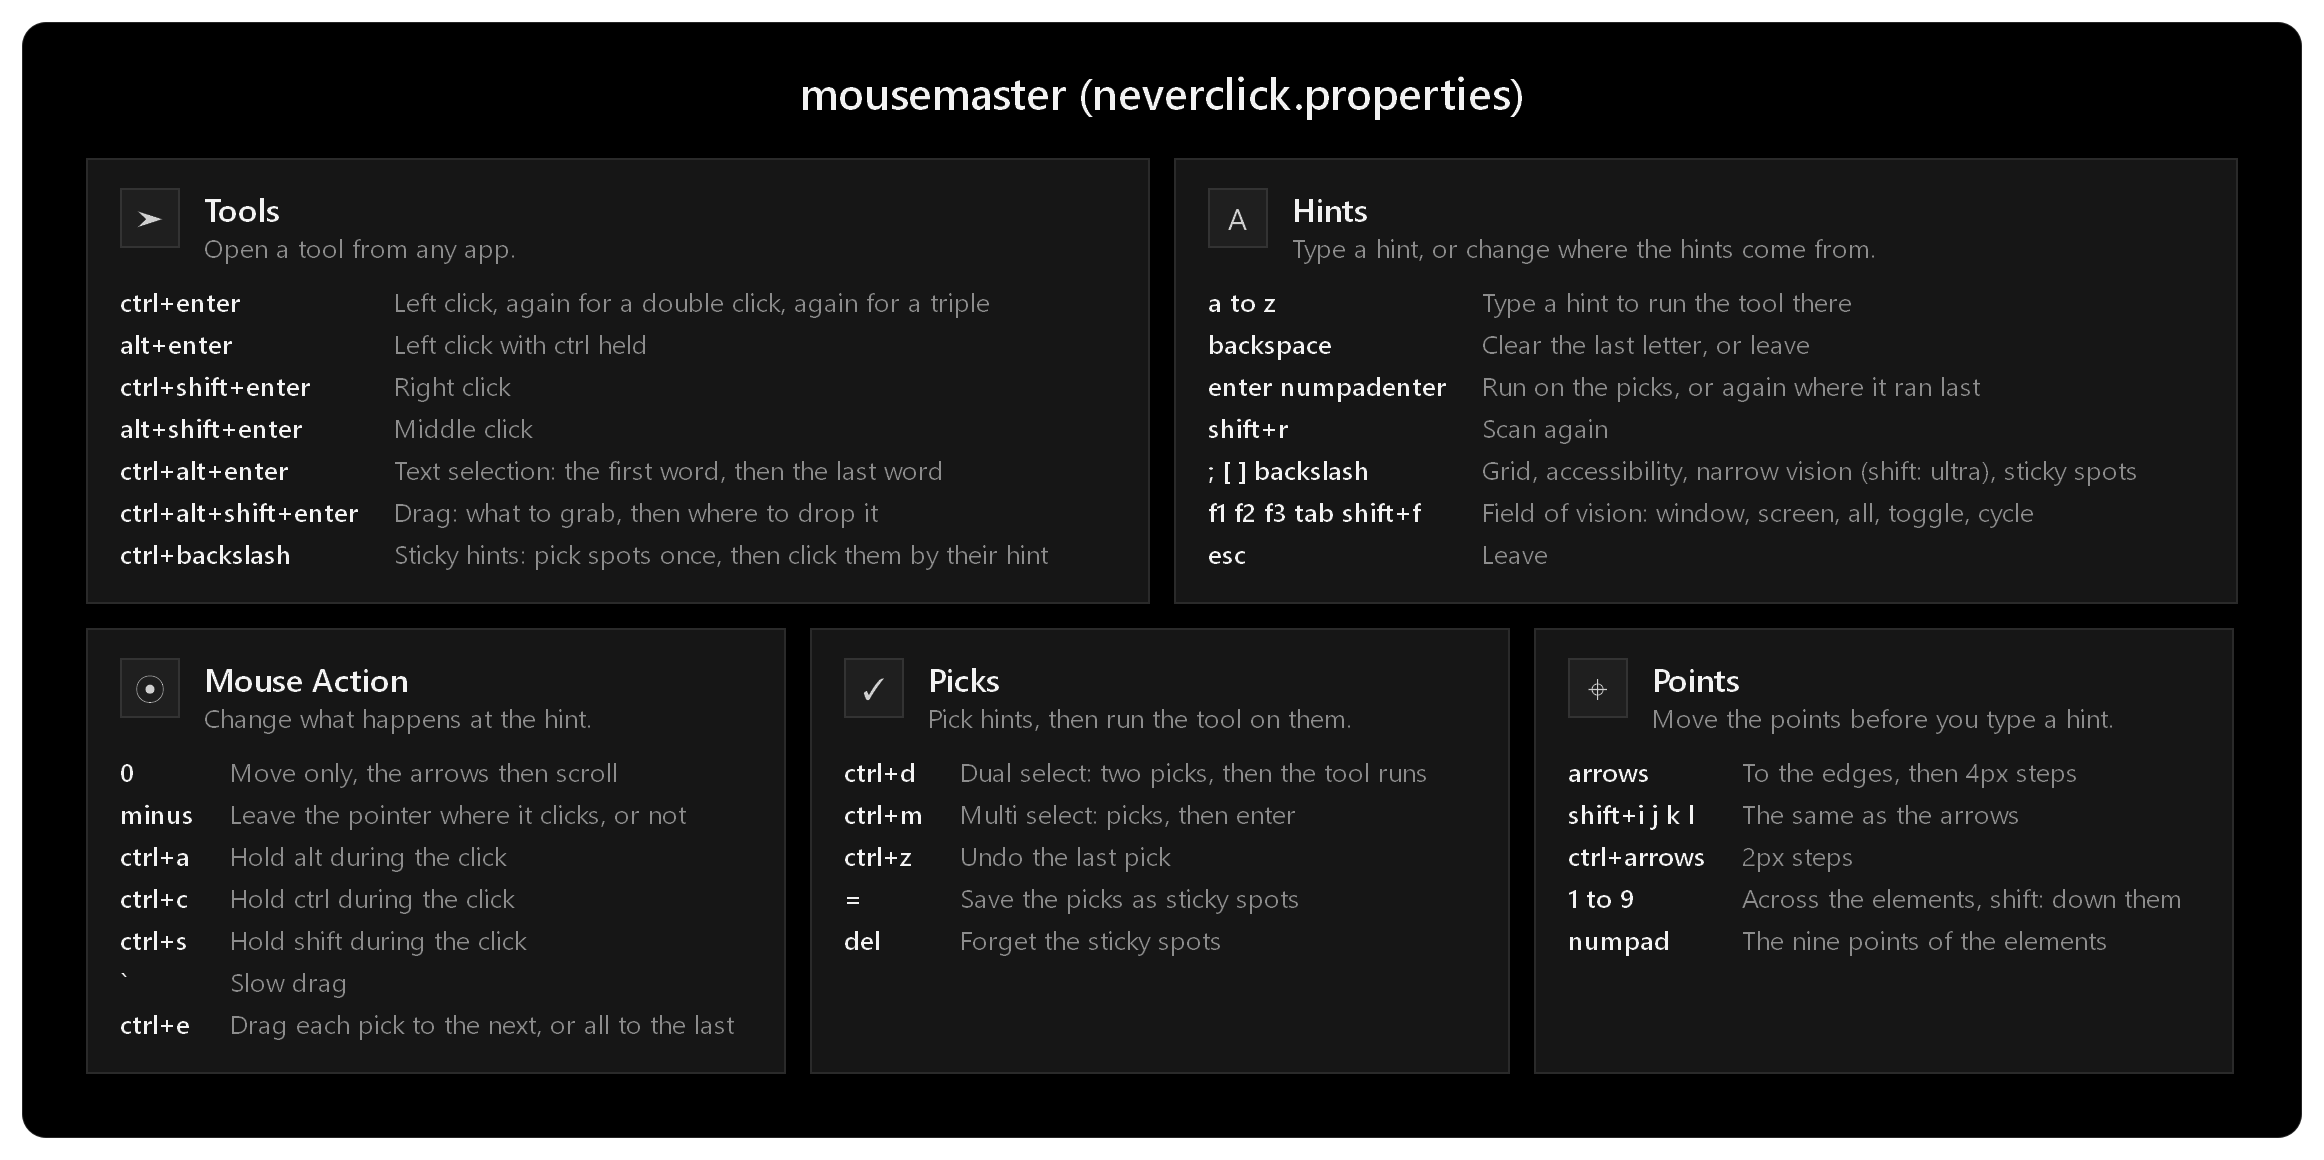
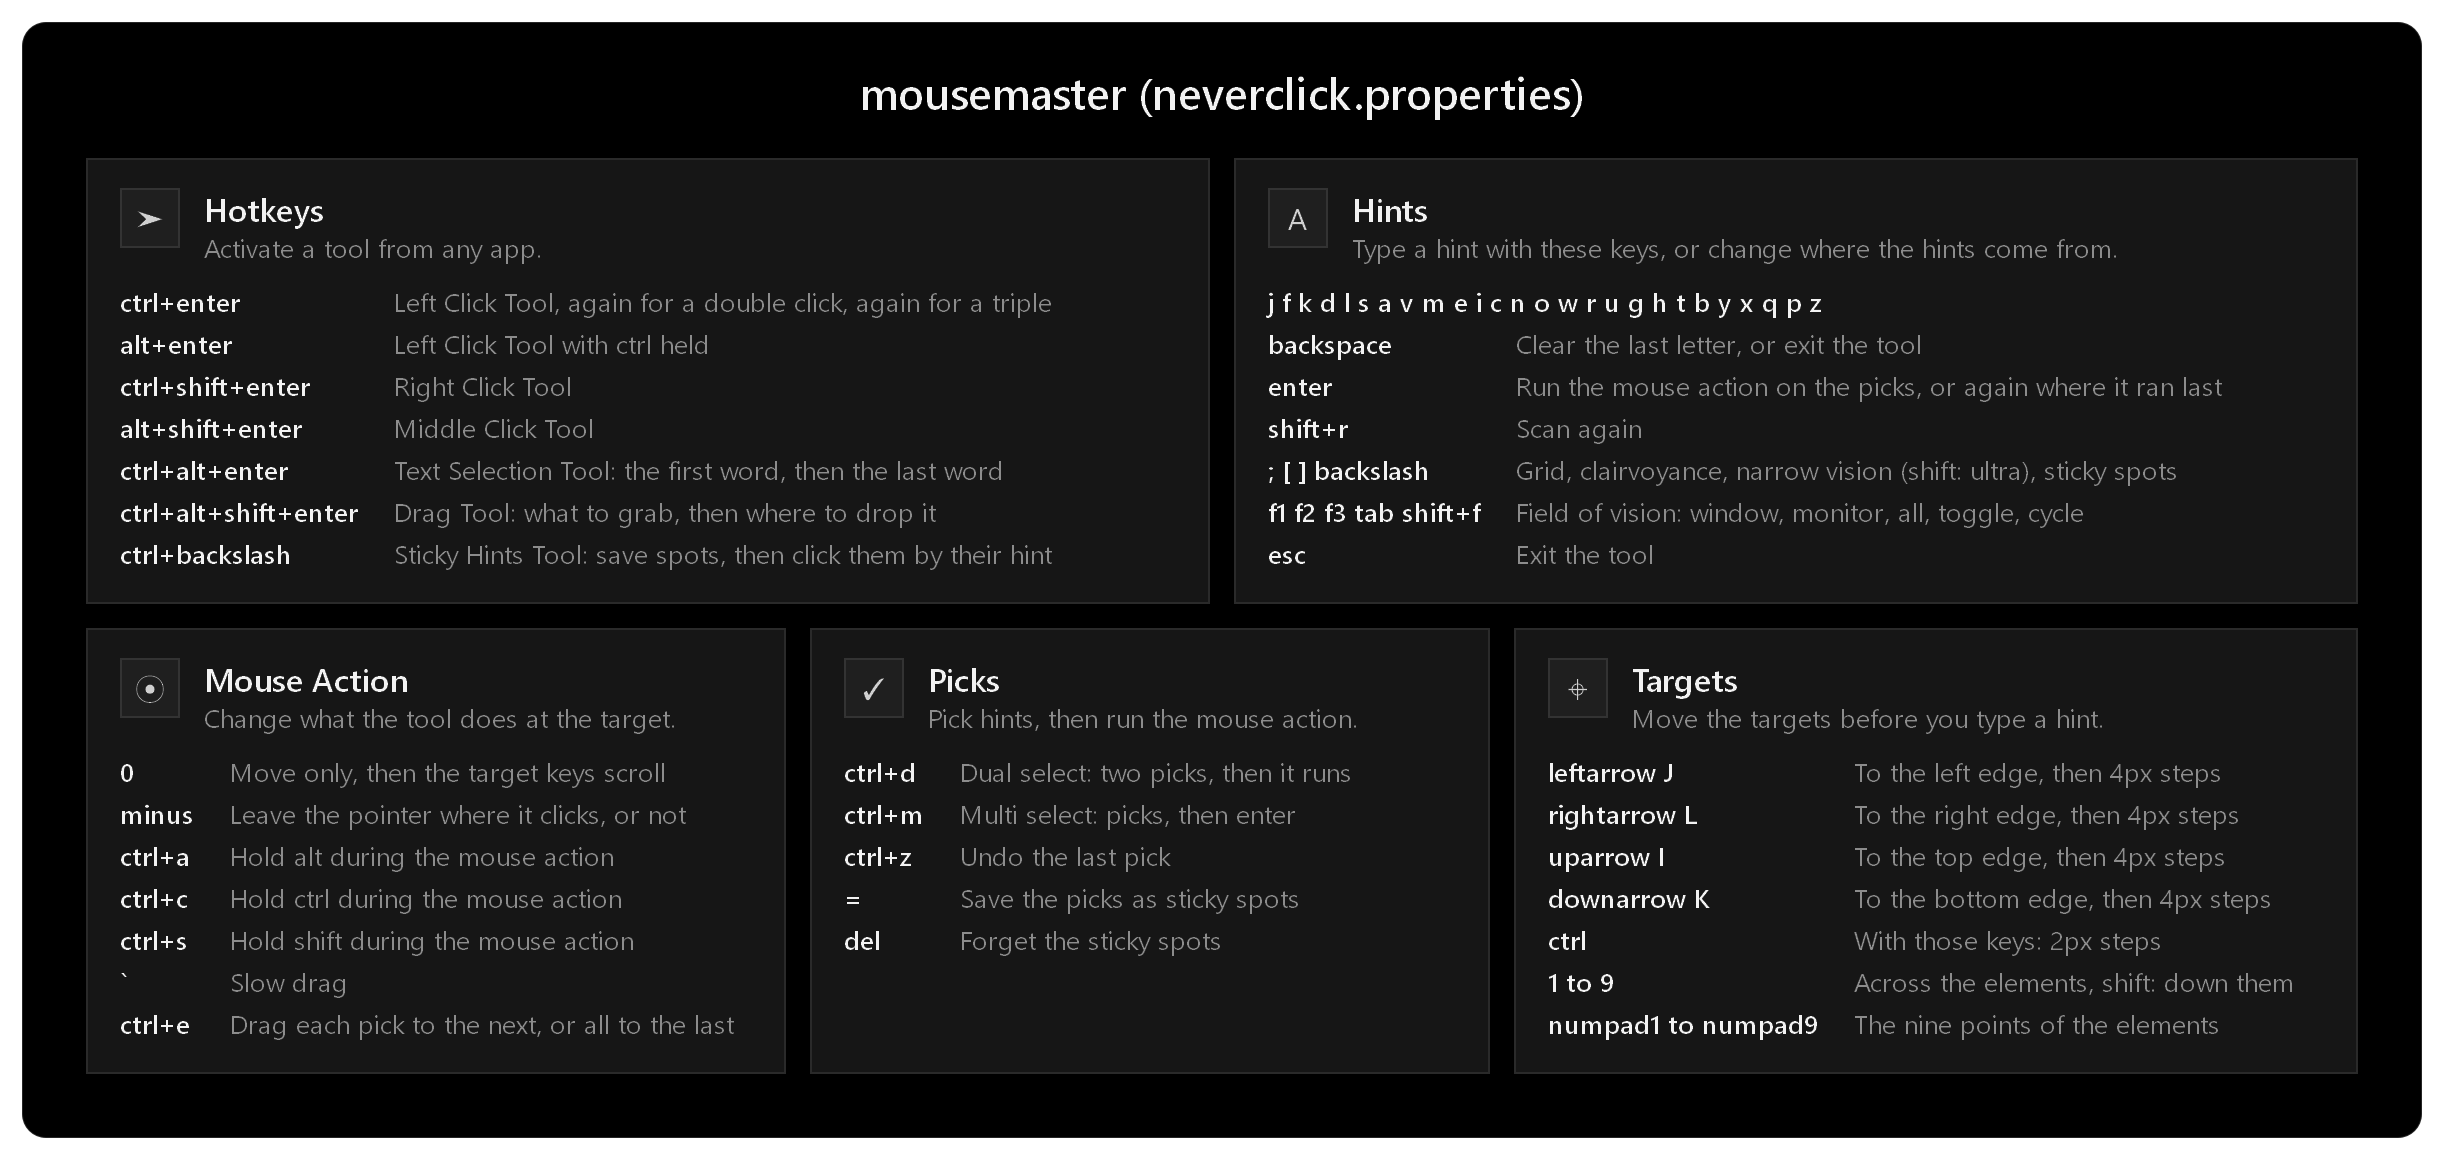
Use Neverclick terms and key aliases in the neverclick cheatsheet

diff --git a/docs/neverclick.md b/docs/neverclick.md
@@ -2,69 +2,69 @@
 
 [Neverclick](https://www.neverclick.com), the mousemaster way.
 
-https://github.com/user-attachments/assets/4725e4a2-9223-4aaa-be56-05647eadde0e
+https://github.com/user-attachments/assets/83378b27-45ff-47c8-bf0f-a980e5dd7b4f
 
-## Tools
+## Hotkeys
 
-From any app:
+From any app, a hotkey activates a tool:
 
-| Keys                   | Tool                                                    |
-|------------------------|---------------------------------------------------------|
-| `Ctrl+Enter`           | Left click (again in the hints: double, then triple)    |
-| `Alt+Enter`            | Ctrl+click                                              |
-| `Ctrl+Shift+Enter`     | Right click                                             |
-| `Alt+Shift+Enter`      | Middle click                                            |
-| `Ctrl+Alt+Enter`       | Text selection: the first word, then the last           |
-| `Ctrl+Alt+Shift+Enter` | Drag: what to grab, then where to drop it               |
-| `Ctrl+\`               | Sticky hints                                            |
+| Hotkey                 | Tool                                                             |
+|------------------------|------------------------------------------------------------------|
+| `Ctrl+Enter`           | Left Click Tool (again in the tool: double, then triple click)   |
+| `Alt+Enter`            | Left Click Tool with Ctrl held                                   |
+| `Ctrl+Shift+Enter`     | Right Click Tool                                                 |
+| `Alt+Shift+Enter`      | Middle Click Tool                                                |
+| `Ctrl+Alt+Enter`       | Text Selection Tool: the first word, then the last               |
+| `Ctrl+Alt+Shift+Enter` | Drag Tool: what to grab, then where to drop it                   |
+| `Ctrl+\`               | Sticky Hints Tool                                                |
 
-The hints mark what computer vision finds on every screen. All labels have the same length, and the labels of the first hint keys (`j f k d l s a …`) go near the center of the active window. A tool hotkey pressed in the hints changes the tool without a new scan.
+The hints mark what computer vision finds on every screen. All labels have the same length, and the labels of the first hint keys (`j f k d l s a …`) go near the center of the active window. A hotkey pressed in a tool changes the tool without a new scan.
 
-While the hints are open, every key but Print Screen goes to mousemaster. A toast at the bottom left names each change.
+While a tool is active, every key but Print Screen goes to mousemaster. A toast at the bottom left names each change.
 
 ![neverclick cheatsheet](assets/neverclick-cheatsheet.png)
 
-Hold `?` while the hints are open to show this cheatsheet.
+Hold `?` in a tool to show this cheatsheet.
 
-## In the hints
+## Hints
 
-- `Backspace` clears the last letter, or leaves. `Esc` leaves.
-- `Enter` runs the tool on the picks, or again where it last ran.
+- `Backspace` clears the last letter, or exits the tool. `Esc` exits the tool.
+- `Enter` runs the mouse action on the picks, or again where it last ran.
 - `Shift+R` scans again.
-- Hint source: `;` a grid, `[` the accessibility elements of the active window, `]` denser vision hints (`Shift+]` the densest), `\` the sticky spots. The same key again goes back to the vision hints, or for the grid, to the hints under it.
-- Field of vision: `F1` the active window, `F2` its screen, `F3` every screen, `Tab` window or all, `Shift+F` the next one. It is kept for the next activations.
+- Hint source: `;` a grid, `[` clairvoyance (the accessibility elements of the active window), `]` denser vision hints (`Shift+]` the densest), `\` the sticky spots. The same key again goes back to the vision hints, or for the grid, to the hints under it.
+- Field of vision: `F1` the active window, `F2` the monitor of the pointer, `F3` every monitor, `Tab` window or all, `Shift+F` the next one. It is kept for the next activations.
 
 ## Mouse action
 
 - `0` moves the pointer without a click. The arrows then scroll, and any other key leaves.
 - `-` leaves the pointer where the tool clicked (kept for the next activations).
-- `Ctrl+A`, `Ctrl+C`, `Ctrl+S` (or `,` `.` `/`) hold Alt, Ctrl, Shift during the click.
+- `Ctrl+A`, `Ctrl+C`, `Ctrl+S` (or `,` `.` `/`) hold Alt, Ctrl, Shift during the mouse action.
 - In a drag, `` ` `` makes it slow, and `Ctrl+E` drags each pick to the next one instead of all to the last (kept for the next activations).
 
 ## Picks
 
-- `Ctrl+D` (or `'`): dual select. Two picks, then the tool runs.
-- `Ctrl+M` (or `Shift+'`): multi select. Any number of picks, then `Enter` runs the tool on each one in order. A drag drags them to the last pick.
+- `Ctrl+D` (or `'`): dual select. Two picks, then the mouse action runs.
+- `Ctrl+M` (or `Shift+'`): multi select. Any number of picks, then `Enter` runs the mouse action on each one in order. A drag drags them to the last pick.
 - `Ctrl+Z` undoes the last pick.
 
 A pick stays on screen, outlined, with a dashed line to the next one.
 
-## Hotspots
+## Targets
 
-Each hint acts at its hotspot, at the center of its element at first. Before you type a hint, these keys move the hotspots of all the hints together. A moved hotspot shows as a dot in the color of its hint, with a line from its label.
+Each hint acts at its target, at the center of its element at first. Before you type a hint, these keys move the targets of all the hints together. A moved target shows as a dot in the color of its hint, with a line from its label.
 
-- Arrows (or `Shift+I J K L`): the first one to the edge of the elements, then 4px steps. Hold an arrow to move the hotspots on after half a second. An arrow pressed during the move joins it. Hold `Ctrl` for 2px steps and half the speed.
+- Arrows (or `Shift+I J K L`): the first one to the edge of the elements, then 4px steps. Hold an arrow to move the targets on after half a second. An arrow pressed during the move joins it. Hold `Ctrl` for 2px steps and half the speed.
 - `1` to `9`: across the elements in eighths, from the left edge (`1`) through the center (`5`) to the right edge (`9`). `Shift` and a digit: down them.
 - Numpad: the nine points of the elements.
 
-A pick keeps its hotspot. The next activation starts the hotspots at the centers again.
+A pick keeps its target. The next activation starts the targets at the centers again.
 
-## Sticky hints
+## Sticky Hints Tool
 
-- `=` in the hints: the hints typed next become sticky spots (26 at most). `Enter` or `=` shows them.
-- `Ctrl+\` shows the sticky spots, or starts to pick them when there are none. Type the hint of a spot to click it: the sticky hints stay open for the next click.
-- In the sticky hints, `=` goes back to the hints to add more, and `Delete` forgets them all.
+- `=` in a tool: the hints typed next become sticky spots (26 at most). `Enter` or `=` shows them.
+- `Ctrl+\` activates the Sticky Hints Tool. It shows the sticky spots, or starts to pick them when there are none. Type the hint of a spot to click it: the tool stays active for the next click.
+- In the Sticky Hints Tool, `=` goes back to the hints to add more, and `Delete` forgets them all.
 
 ## Rebinding
 
-Every key is an alias at the top of [neverclick.properties](../configuration/neverclick.properties), e.g. `key-alias.toolkey.us-qwerty=enter numpadenter`: change the value to remap. `hintkey` lists the hint keys in priority order.
+Every key is an alias at the top of [neverclick.properties](../configuration/neverclick.properties), e.g. `key-alias.toolkey.us-qwerty=enter`: change the value to remap, and the cheatsheet shows the new key. `hintkey` lists the hint keys in priority order. The numpad Enter does what `toolkey` does.
